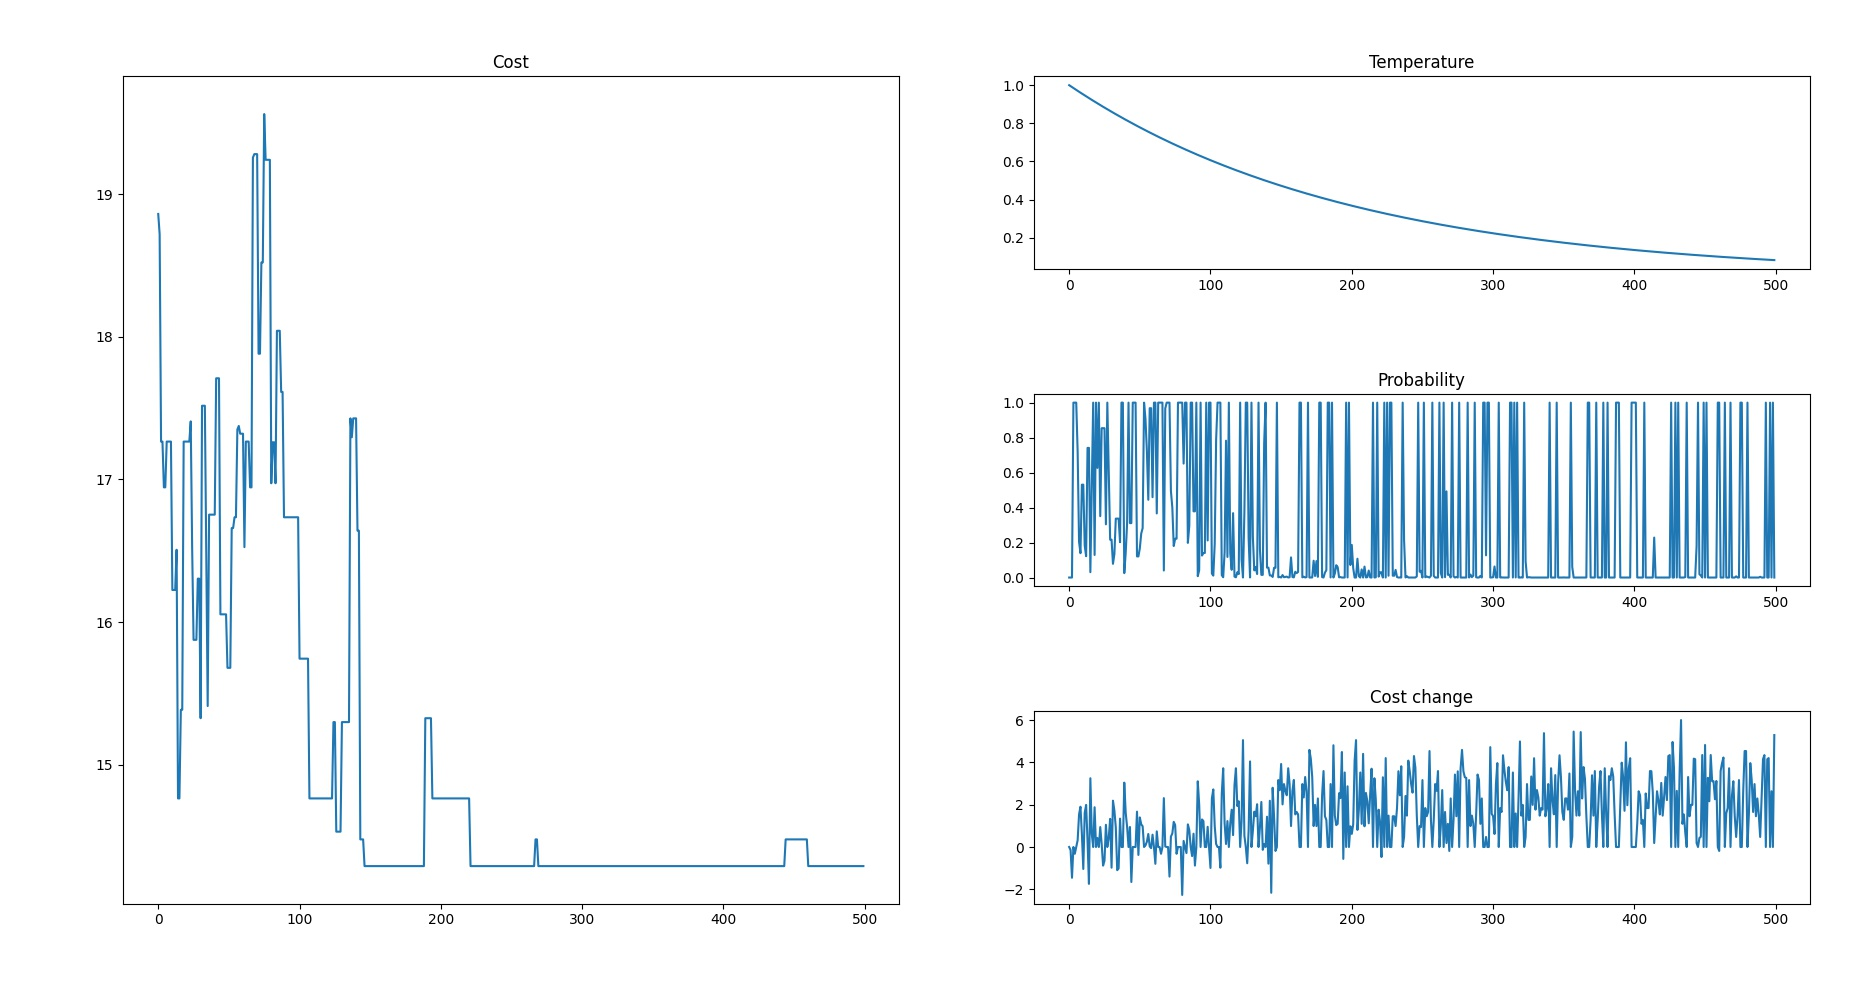
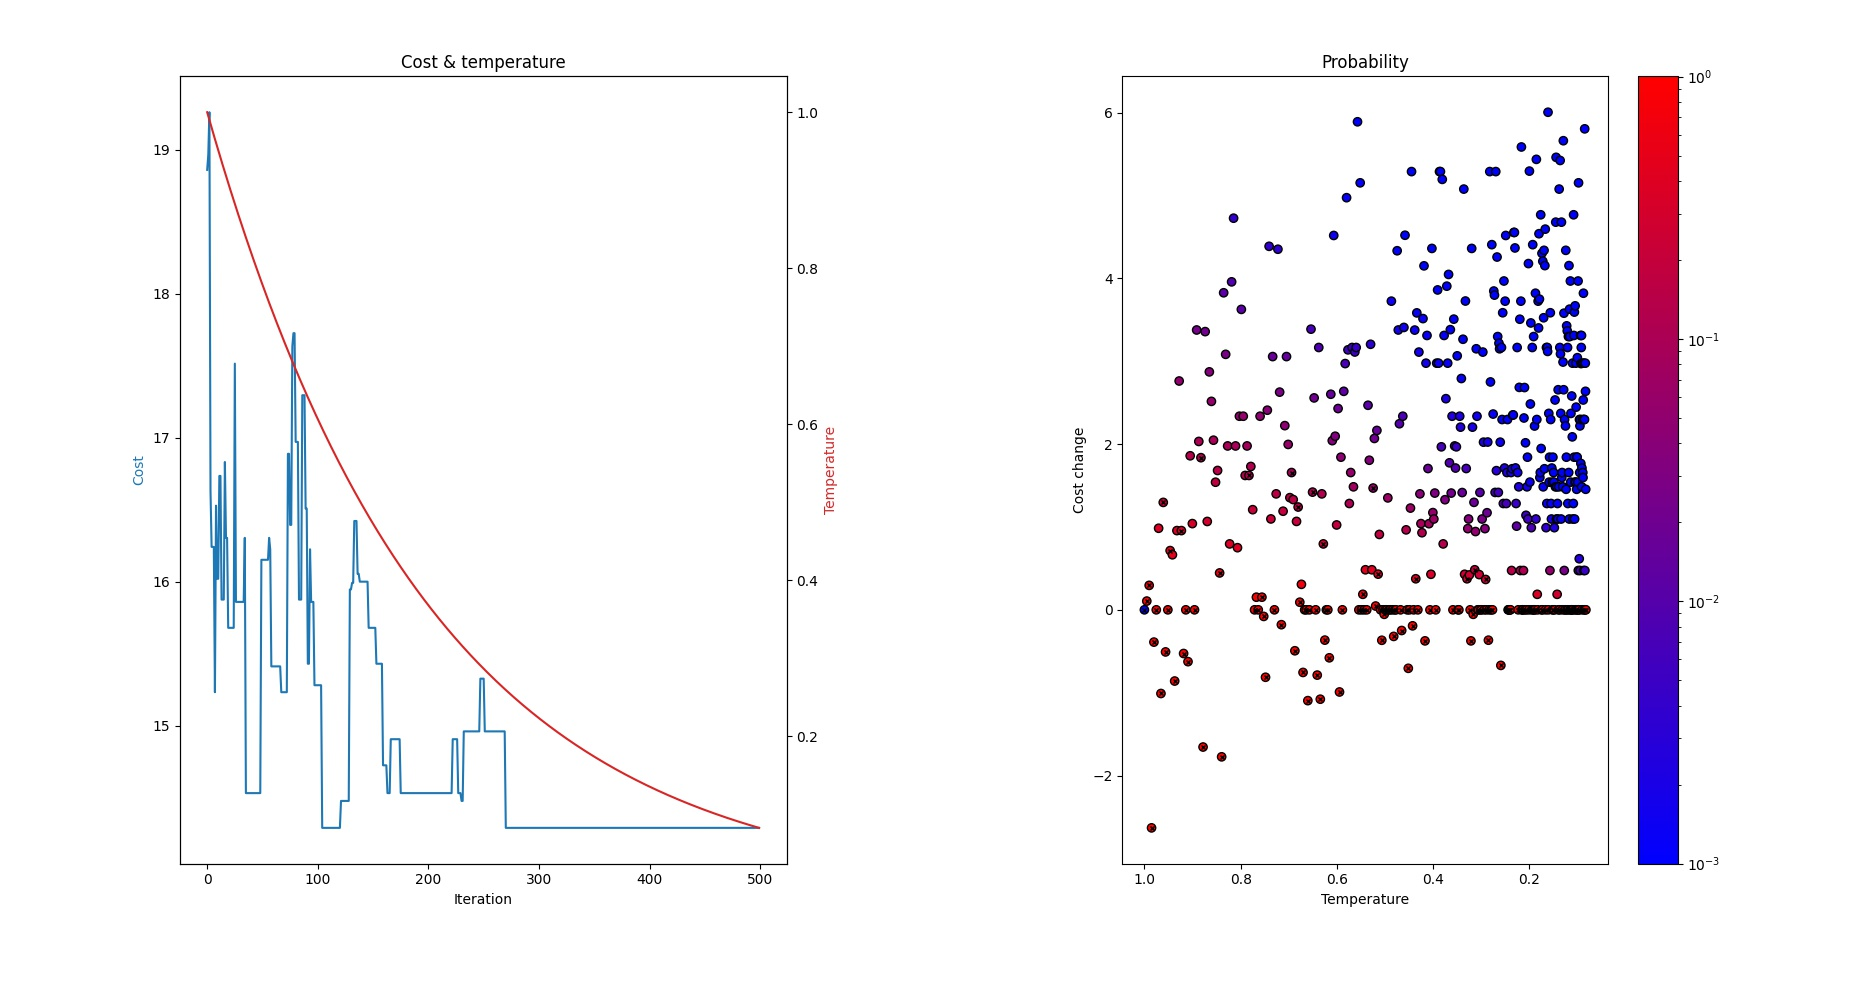
Update SA plot and rename class

diff --git a/route_optimization.py b/route_optimization.py
@@ -1,10 +1,11 @@
-import copy
 import logging
 import random
 from typing import List, Callable, Tuple
 
 import matplotlib.pyplot as plt
 import numpy as np
+from matplotlib import colors
+from matplotlib.colors import LinearSegmentedColormap
 
 logger = logging.getLogger(__name__)
 
@@ -28,7 +29,7 @@ def energy_probability(delta_cost: float, temperature: float, k: float = 1) -> f
     return np.exp(-delta_cost / (k * temperature))
 
 
-class Optimizer:
+class SARouteOptimizer:
 
     def __init__(self,
                  cost_matrix: np.ndarray,
@@ -53,6 +54,7 @@ class Optimizer:
         self.costs = []
         self.probabilities = []
         self.delta_costs = []
+        self.is_accepted = []
 
     def run(self, init_route: List[int]) -> Tuple[List[int], float]:
         current_route = init_route.copy()
@@ -62,6 +64,7 @@ class Optimizer:
         best_cost = self._calculate_cost(best_route)
 
         probability, delta_cost = 0, 0
+        is_accepted = True
 
         for t in range(self.max_iter):
 
@@ -75,13 +78,17 @@ class Optimizer:
             self.costs.append(current_cost)
             self.probabilities.append(probability)
             self.delta_costs.append(delta_cost)
+            self.is_accepted.append(is_accepted)
 
             mutated_route = self.mutation_function(current_route.copy())
             mutated_route_cost = self._calculate_cost(mutated_route)
             logger.debug(f"Mutated route: {mutated_route}; cost {mutated_route_cost}")
             delta_cost = mutated_route_cost - current_cost
 
+            is_accepted = False
             if delta_cost < 0:
+                is_accepted = True
+                probability = 1
                 current_route = mutated_route.copy()
                 current_cost = mutated_route_cost
                 if current_cost < best_cost:
@@ -94,6 +101,7 @@ class Optimizer:
             else:
                 probability = self.probability_function(delta_cost, temperature)
                 if probability > random.uniform(0.0, 1.0):
+                    is_accepted = True
                     current_route = mutated_route.copy()
                     current_cost = mutated_route_cost
 
@@ -104,22 +112,39 @@ class Optimizer:
 
     def plot_solution(self):
         plt.figure(1)
-        plt.subplot(1, 2, 1)
-        plt.cla()
-        plt.plot(self.costs)
-        plt.title("Cost")
-        plt.subplot(3, 2, 2)
-        plt.cla()
-        plt.plot(self.temperatures)
-        plt.title("Temperature")
-        plt.subplot(3, 2, 4)
-        plt.cla()
-        plt.plot(self.probabilities)
+
+        ax1 = plt.subplot(1, 2, 1)
+
+        color = 'tab:blue'
+        ax1.plot(self.costs, color=color)
+        ax1.set_ylabel('Cost', color=color)
+
+        color = 'tab:red'
+        ax2 = ax1.twinx()
+        ax2.plot(self.temperatures, color=color)
+        ax2.set_ylabel('Temperature', color=color)
+
+        ax1.set_xlabel("Iteration")
+        plt.title("Cost & temperature")
+
+        plt.subplot(1, 2, 2)
+        sc = plt.scatter(self.temperatures,
+                         self.delta_costs,
+                         c=np.array(self.probabilities) + 0.001,
+                         norm=colors.LogNorm(),
+                         edgecolors="k",
+                         cmap=LinearSegmentedColormap.from_list("MyCmapName", ["b", "r"]))
+        plt.colorbar(sc)
+        plt.gca().invert_xaxis()
+        plt.plot(np.array(self.temperatures)[self.is_accepted],
+                 np.array(self.delta_costs)[self.is_accepted],
+                 "kx",
+                 markersize=3)
+
+        plt.xlabel("Temperature")
+        plt.ylabel("Cost change")
         plt.title("Probability")
-        plt.subplot(3, 2, 6)
-        plt.cla()
-        plt.plot(self.delta_costs)
-        plt.title("Cost change")
+
         plt.tight_layout()
         plt.show()
 

diff --git a/main.py b/main.py
@@ -7,7 +7,7 @@ import numpy as np
 from osmnx import graph_from_place, config
 
 from constants import HILLS, USE_SAVED_DISTANCES, START_HILL, END_HILL
-from route_optimization import Optimizer
+from route_optimization import SARouteOptimizer
 from utils import calculate_distance_matrix, create_map, calculate_full_path, create_init_route
 
 
@@ -53,10 +53,10 @@ if not USE_SAVED_DISTANCES:
     print("Saving distances to file")
     np.savetxt("distances.txt", distances_matrix)
 
-optimizer = Optimizer(distances_matrix,
-                      max_iter=500,
-                      mutation_function=partial(random_swap, mutation_probability=0.2),
-                      schedule_function=partial(exp_schedule, max_temperature=1.0, decay_constant=0.005))
+optimizer = SARouteOptimizer(distances_matrix,
+                             max_iter=500,
+                             mutation_function=partial(random_swap, mutation_probability=0.2),
+                             schedule_function=partial(exp_schedule, max_temperature=1.0, decay_constant=0.005))
 
 print("Calculating optimal order of hills")
 init_route = create_init_route(hill_names.index(START_HILL), hill_names.index(END_HILL), distances_matrix.shape[0])
